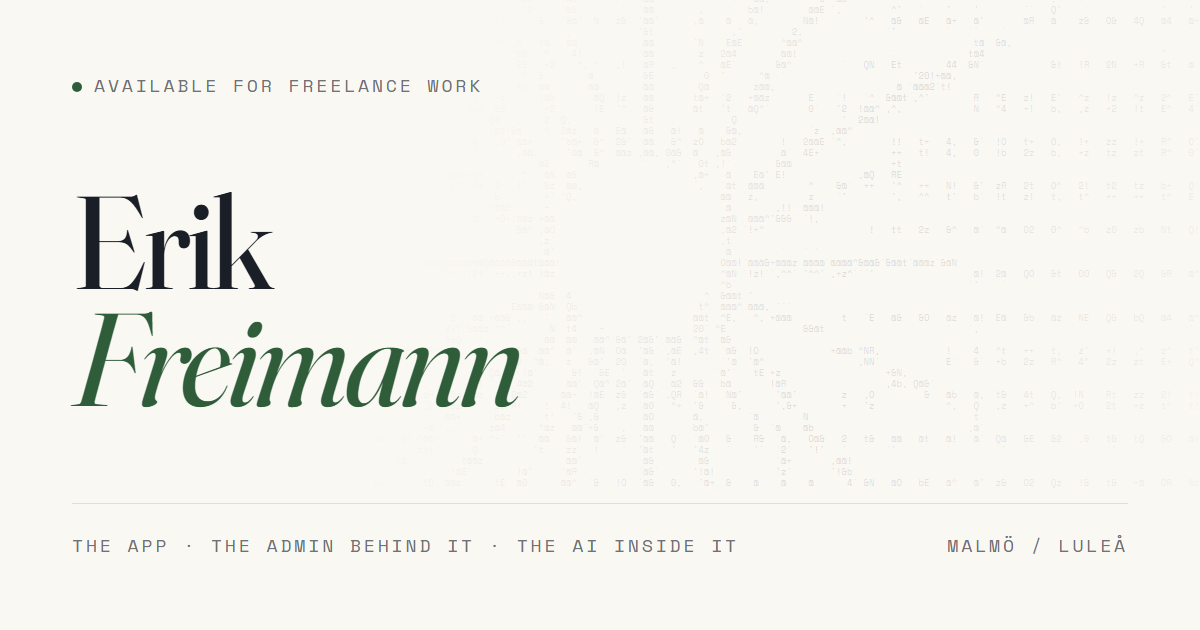
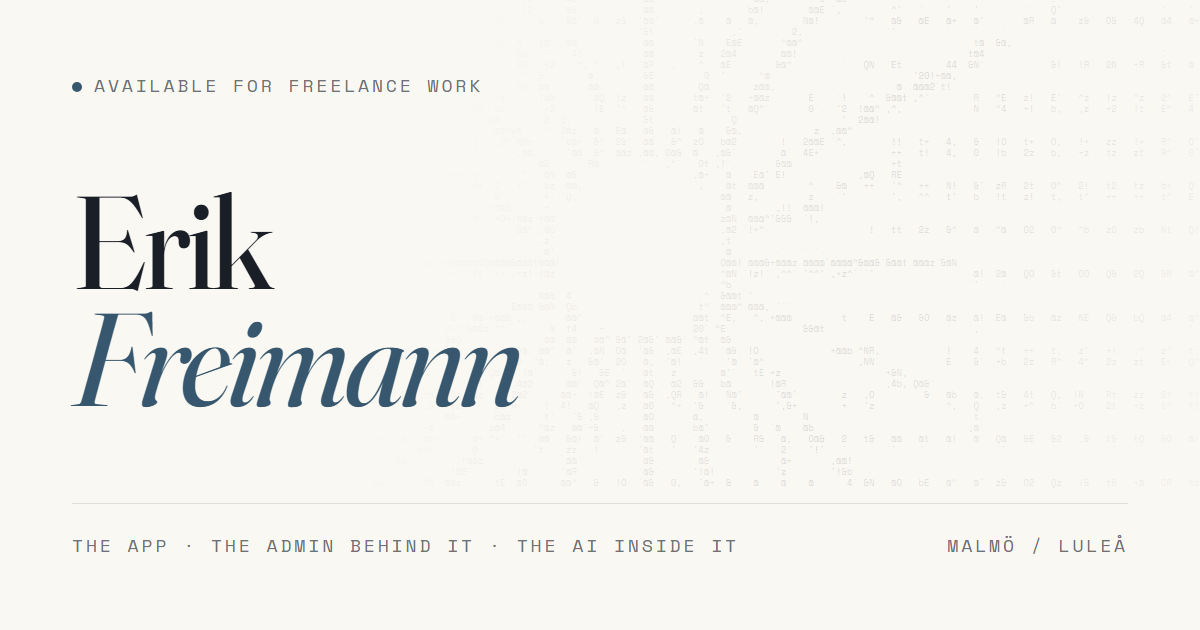
Move the accent from fir green to glacier blue
The one accent colour goes from #2f5d3a to #36576d. Matched on relative
luminance rather than HSL lightness: blue carries far less luminance than
green, so rotating the hue at the same 27% lightness would have measured
8.8 : 1 instead of 7.2 : 1 and read heavier everywhere the accent is a
hairline or small mono type. Lifting to 32% lightness puts it back on the
green's exact weight, so the README's contrast row still holds.

The token is renamed green → blue with it. A text-green class rendering
blue is a trap for whoever reads this next.

og.png and the two PNG icons are regenerated, since they bake the hex in.
The mockups still show green; those are a separate npm run shots.

Changed region(s): [[0.0617, 0.4825, 0.4317, 0.6635]]

diff --git a/src/app/globals.css b/src/app/globals.css
@@ -5,7 +5,7 @@
 
    paper and ink are lifted straight out of the ASCII plate in
    /public/ascii/vallee-blanche.txt, so the hero canvas and the page it
-   sits on are literally the same two values. green is the one accent:
+   sits on are literally the same two values. blue is the one accent:
    links, marks, the descent line. Everything else is those three mixed.
    ───────────────────────────────────────────────────────────────────── */
 
@@ -16,7 +16,7 @@
 
   --color-paper: #faf8f3;
   --color-ink: #1a1e26;
-  --color-green: #2f5d3a;
+  --color-blue: #36576d;
 
   /* ink over paper at 62% / 12% / 5% — precomputed so they stay exact. */
   --color-muted: #6f7174;
@@ -42,7 +42,7 @@ body {
 }
 
 ::selection {
-  background: var(--color-green);
+  background: var(--color-blue);
   color: var(--color-paper);
 }
 
@@ -93,7 +93,7 @@ html.motion-ready .js-anim {
 }
 
 /* ── Links ──────────────────────────────────────────────────────────────
-   A green rule wipes in from the left. No underline-offset guesswork —
+   A blue rule wipes in from the left. No underline-offset guesswork —
    it is a pseudo-element, so it never collides with descenders.           */
 .wipe {
   position: relative;
@@ -106,7 +106,7 @@ html.motion-ready .js-anim {
   right: 0;
   bottom: -0.14em;
   height: 1px;
-  background: var(--color-green);
+  background: var(--color-blue);
   transform: scaleX(0);
   transform-origin: left;
   transition: transform 0.5s cubic-bezier(0.16, 1, 0.3, 1);
@@ -133,7 +133,7 @@ a:focus-visible .wipe::after {
 }
 
 *:focus-visible {
-  outline: 2px solid var(--color-green);
+  outline: 2px solid var(--color-blue);
   outline-offset: 3px;
   border-radius: 1px;
 }

diff --git a/src/components/ascii/AsciiHero.tsx b/src/components/ascii/AsciiHero.tsx
@@ -236,7 +236,7 @@ export function AsciiHero() {
               data-fade="0.2"
               className="js-anim flex items-center gap-3 font-mono text-[11px] tracking-[0.2em] text-muted uppercase"
             >
-              <span className="hero-cue block h-8 w-px bg-green" aria-hidden />
+              <span className="hero-cue block h-8 w-px bg-blue" aria-hidden />
               {hero.cue}
             </p>
           </div>
@@ -249,12 +249,12 @@ export function AsciiHero() {
           className="hero-statement absolute inset-0 flex items-center px-5 opacity-0 will-change-[transform,opacity] md:px-10"
         >
           <div className="mx-auto max-w-4xl">
-            <p className="font-mono text-[11px] tracking-[0.2em] text-green uppercase">
+            <p className="font-mono text-[11px] tracking-[0.2em] text-blue uppercase">
               {statement.label}
             </p>
             <p className="mt-7 font-fraunces text-[clamp(1.7rem,4.6vw,3.6rem)] leading-[1.08] font-normal tracking-[-0.025em] text-balance">
               {statement.lead}{" "}
-              <span className="text-green italic">{statement.emphasis}</span>
+              <span className="text-blue italic">{statement.emphasis}</span>
             </p>
           </div>
         </div>

diff --git a/src/components/sections/Work.tsx b/src/components/sections/Work.tsx
@@ -38,7 +38,7 @@ function Entry({
               data-fade
               className="js-anim tnum flex items-baseline gap-3 font-mono text-[10px] tracking-[0.2em] uppercase"
             >
-              <span className="text-green">{project.index}</span>
+              <span className="text-blue">{project.index}</span>
               <span className="text-line">/</span>
               <span className="text-muted">
                 {project.year} · {text.role}
@@ -104,7 +104,7 @@ function Entry({
               >
                 <p
                   data-fade
-                  className="js-anim tnum font-mono text-[10px] tracking-[0.2em] text-green uppercase"
+                  className="js-anim tnum font-mono text-[10px] tracking-[0.2em] text-blue uppercase"
                 >
                   {String(i + 1).padStart(2, "0")}
                 </p>

diff --git a/src/components/sections/About.tsx b/src/components/sections/About.tsx
@@ -25,7 +25,7 @@ export function About() {
           <h2 className="font-fraunces text-[clamp(1.8rem,4.4vw,3.1rem)] leading-[1.08] font-normal tracking-[-0.03em]">
             <Mask>{about.headline.lead}</Mask>
             <Mask>
-              <span className="text-green italic">{about.headline.emphasis}</span>
+              <span className="text-blue italic">{about.headline.emphasis}</span>
             </Mask>
           </h2>
 
@@ -46,7 +46,7 @@ export function About() {
             <dt className="text-muted uppercase">{about.facts.based}</dt>
             <dd>{about.location}</dd>
             <dt className="text-muted uppercase">{about.facts.status}</dt>
-            <dd className="text-green">{about.facts.statusValue}</dd>
+            <dd className="text-blue">{about.facts.statusValue}</dd>
           </dl>
         </div>
 

diff --git a/src/components/site/FlightStripe.tsx b/src/components/site/FlightStripe.tsx
@@ -6,7 +6,7 @@ import { onHeroProgress } from "@/lib/heroProgress";
 import { prefersReducedMotion, useIsomorphicLayoutEffect } from "@/lib/motion";
 
 /**
- * The flight's only instrument: a green stripe across the foot of the screen
+ * The flight's only instrument: a blue stripe across the foot of the screen
  * that draws itself as the plate comes toward you, and is gone by the time the
  * light hands you the first line.
  *
@@ -46,7 +46,7 @@ export function FlightStripe() {
     >
       <span
         ref={bar}
-        className="block h-full w-full origin-left scale-x-0 bg-green will-change-transform"
+        className="block h-full w-full origin-left scale-x-0 bg-blue will-change-transform"
       />
     </div>
   );

diff --git a/src/components/sections/SectionHead.tsx b/src/components/sections/SectionHead.tsx
@@ -22,7 +22,7 @@ export function SectionHead({
     <div className="pt-24 md:pt-32">
       <div className="flex flex-wrap items-baseline justify-between gap-x-8 gap-y-2 font-mono text-[11px] tracking-[0.2em] uppercase">
         <p data-fade className="js-anim">
-          <span className="text-green">{index}</span>
+          <span className="text-blue">{index}</span>
           <span className="px-2.5 text-line">/</span>
           <span>{label}</span>
         </p>

diff --git a/README.md b/README.md
@@ -46,19 +46,19 @@ sun in frame, laid on paper with hard edges.
 ## Colour
 
 Three values, no more. `paper` and `ink` are lifted straight out of the plate, so the hero
-canvas and the page are literally the same two colours. `green` is the only accent.
+canvas and the page are literally the same two colours. `blue` is the only accent.
 
 | Token | Value | |
 | --- | --- | --- |
 | `paper` | `#faf8f3` | the ground |
 | `ink` | `#1a1e26` | 15.7 : 1 on paper |
-| `green` | `#2f5d3a` | 7.2 : 1 on paper |
+| `blue` | `#36576d` | 7.2 : 1 on paper |
 | `muted` | `#6f7174` | ink at 62% — 4.6 : 1, passes AA for body |
 
 ## Motion
 
 Two moves for the whole site: type rises out of a mask, and rules draw themselves. That is
-the entire vocabulary — everything else is the hero. The only piece of chrome is the green
+the entire vocabulary — everything else is the hero. The only piece of chrome is the blue
 stripe at the foot of the screen, which draws itself during the flight and leaves with it.
 
 `prefers-reduced-motion` is honoured throughout: the flight is off, Lenis never initialises,
